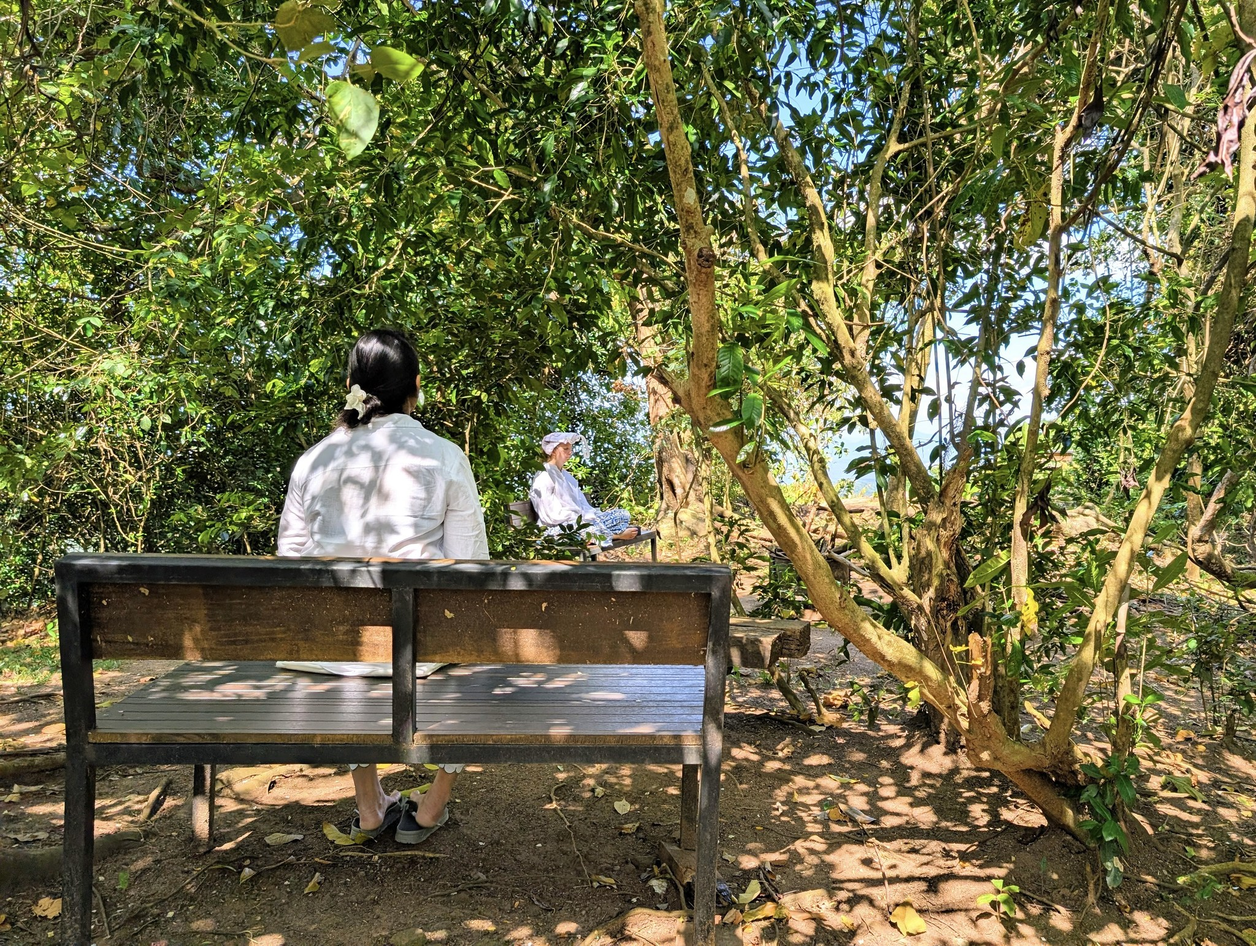
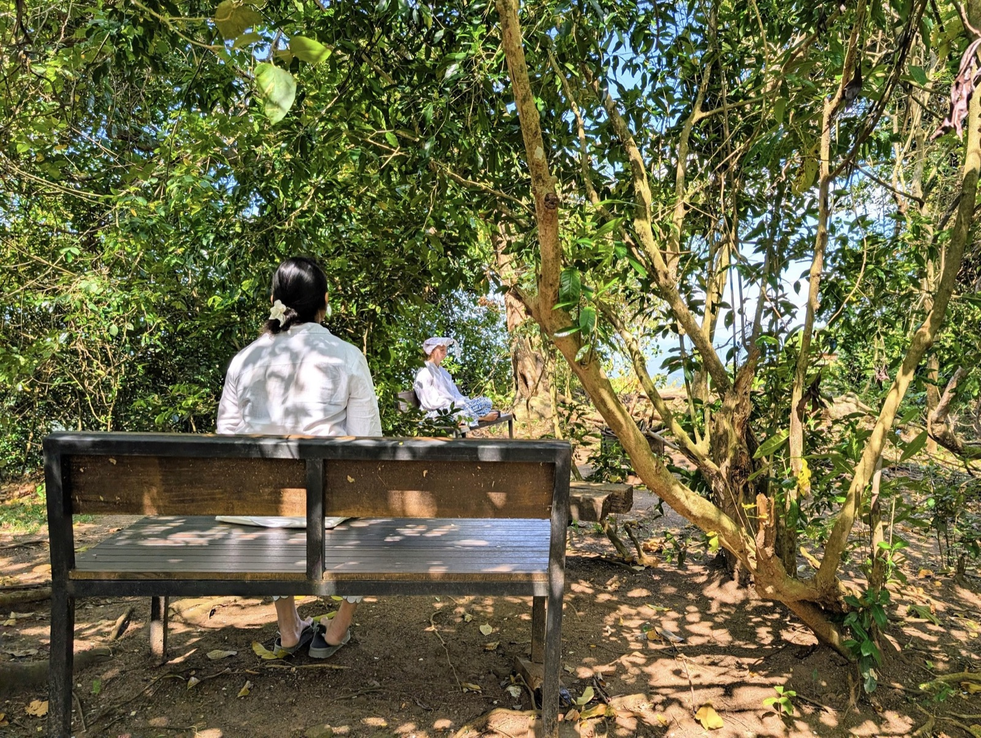
news: lazy-load card thumbnails + 'Load more' pagination; compress oversized photos
Listing now renders 9 cards at a time with a Load more button and lazy-loaded
thumbnails, so the page stays fast as posts accumulate. Oversized photos
downscaled to 1600px max (q80, only where it reduced size) — visually identical
on the kiosk. styles.css -> v9.

diff --git a/news/index.html b/news/index.html
@@ -8,7 +8,7 @@
 <link rel="preconnect" href="https://fonts.googleapis.com" />
 <link rel="preconnect" href="https://fonts.gstatic.com" crossorigin />
 <link href="https://fonts.googleapis.com/css2?family=Cormorant+Garamond:ital,wght@0,300;0,400;0,500;0,600;1,300;1,400;1,500&family=Spectral:ital,wght@0,300;0,400;0,500;0,600;1,400&display=swap" rel="stylesheet" />
-<link rel="stylesheet" href="styles.css?v=8" />
+<link rel="stylesheet" href="styles.css?v=9" />
 </head>
 <body>
 <main id="top">
@@ -44,6 +44,7 @@
         <h2 class="section-title">News &amp; announcements</h2>
       </div>
       <div id="grid-mount" class="grid"></div>
+      <div class="more-row"><button id="loadMore" class="btn" type="button" hidden>Load more</button></div>
     </div>
   </section>
 
@@ -225,16 +226,18 @@
         '<button class="readmore" type="button" data-idx="0">Read more <span class="arr">&rarr;</span></button>' +
       '</div>';
 
-    // Grid = the rest
+    // Grid = the rest, paginated with "Load more" so the page stays fast
+    // no matter how many posts accumulate. Thumbnails lazy-load.
     var rest = posts.slice(1);
     if (!rest.length) {
       document.getElementById('more').style.display = 'none';
     } else {
-      gridMount.innerHTML = rest.map(function (p, i) {
-        var idx = i + 1;
+      var PAGE_SIZE = 9, shown = 0;
+      var moreBtn = document.getElementById('loadMore');
+      function cardHTML(p, idx) {
         var tSrc = thumbSrc(p);
-        var thumb = tSrc ? '<div class="thumb"><img src="' + tSrc + '" alt="' + esc(p.title) + '">' + playBadge(p) + '</div>' : '';
-        return '<button class="card reveal" type="button" data-idx="' + idx + '" style="--reveal-delay:' + (i * 80) + 'ms">' +
+        var thumb = tSrc ? '<div class="thumb"><img src="' + tSrc + '" alt="' + esc(p.title) + '" loading="lazy">' + playBadge(p) + '</div>' : '';
+        return '<button class="card reveal" type="button" data-idx="' + idx + '">' +
           thumb +
           '<div class="body">' +
             '<div class="meta"><span class="tag">' + esc(p.type || 'News') + '</span><span class="date">' + fmtDate(p.date) + '</span></div>' +
@@ -244,7 +247,19 @@
             '<span class="readmore">Read more <span class="arr">&rarr;</span></span>' +
           '</div>' +
         '</button>';
-      }).join('');
+      }
+      function showMore(initial) {
+        var batch = rest.slice(shown, shown + PAGE_SIZE);
+        gridMount.insertAdjacentHTML('beforeend', batch.map(function (p, j) { return cardHTML(p, shown + 1 + j); }).join(''));
+        shown += batch.length;
+        if (!initial) {
+          // user-triggered: reveal the new cards immediately
+          [].forEach.call(gridMount.querySelectorAll('.card.reveal:not(.in)'), function (c) { c.classList.add('in'); });
+        }
+        if (moreBtn) moreBtn.hidden = (shown >= rest.length);
+      }
+      showMore(true);
+      if (moreBtn) moreBtn.addEventListener('click', function () { showMore(false); });
     }
 
     // open reader on any element carrying data-idx

diff --git a/news/styles.css b/news/styles.css
@@ -153,6 +153,8 @@ img { max-width: 100%; display: block; }
 .grid { display: grid; grid-template-columns: repeat(3, 1fr); gap: clamp(20px, 2.6vw, 36px); }
 @media (max-width: 900px) { .grid { grid-template-columns: repeat(2, 1fr); } }
 @media (max-width: 560px) { .grid { grid-template-columns: 1fr; } }
+.more-row { text-align: center; margin-top: clamp(32px, 5vw, 56px); }
+.more-row .btn { cursor: pointer; border: 0; }
 
 .card {
   display: flex; flex-direction: column;
